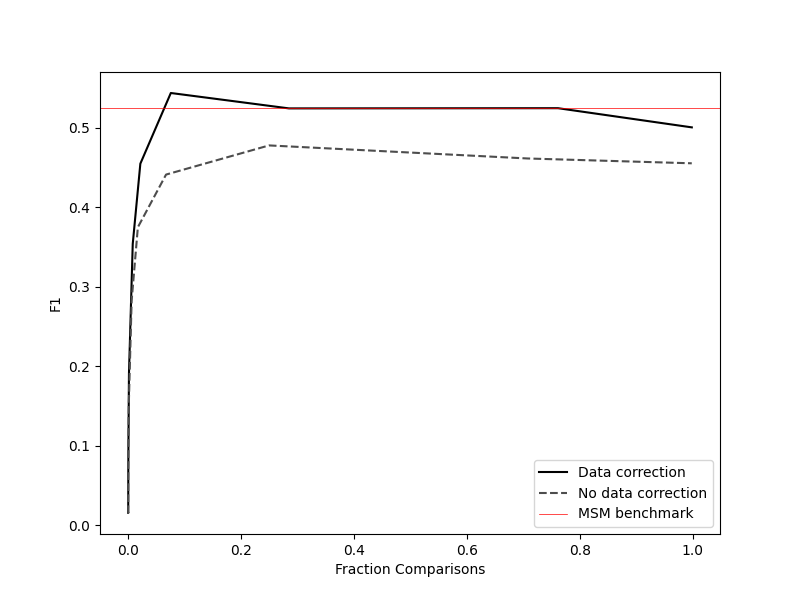
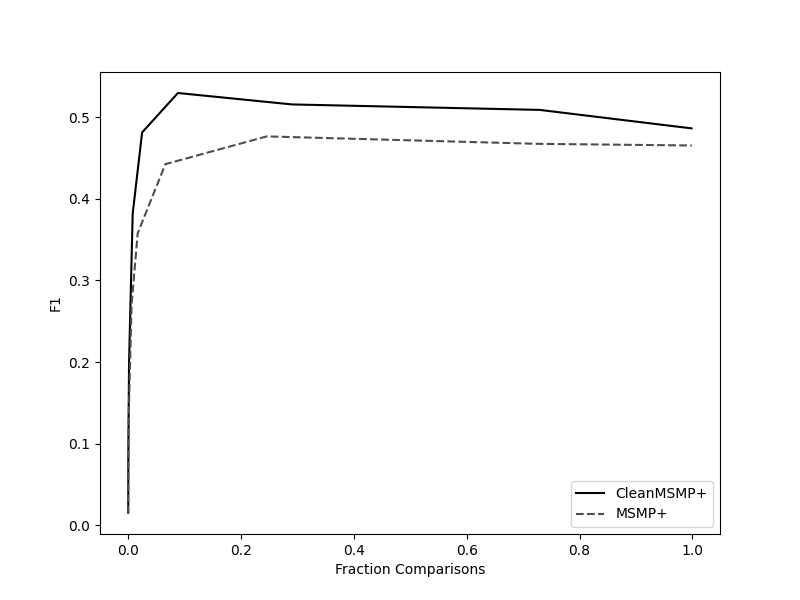
Update final results

diff --git a/main.py b/main.py
@@ -65,7 +65,7 @@ def check_duplicates(data, dissimilarity, candidates, clusters):
     F_1 = 2 * (precision * recall) / (precision + recall) if (precision + recall) != 0 else 0
     F_1_star = (2 * PQ * PC) / (PQ + PC) if PQ + PC != 0 else 0
 
-    return (F_1, F_1_star, PC, PQ, n_comp, frac_comp)
+    return (F_1, F_1_star, PC, PQ, n_comp, frac_comp, precision, recall)
 
 def plot_metrics(dataframe_corrected, dataframe_no_correction, metric1, metric2, path):
     os.makedirs(path, exist_ok=True)
@@ -75,11 +75,8 @@ def plot_metrics(dataframe_corrected, dataframe_no_correction, metric1, metric2,
     filename = f"{title}.png"
     
     plt.figure(figsize=(8, 6))
-    plt.plot(grouped_corrected[metric1], grouped_corrected[metric2], color='black', linestyle='-', label='Data correction')
-    plt.plot(grouped_no_correction[metric1], grouped_no_correction[metric2], color='0.3', linestyle='--', label='No data correction')
-    
-    if metric2 == "F1":
-        plt.axhline(y=0.525, color='red', linewidth=0.5, linestyle='-', label='MSM benchmark')
+    plt.plot(grouped_corrected[metric1], grouped_corrected[metric2], color='black', linestyle='-', label='CleanMSMP+')
+    plt.plot(grouped_no_correction[metric1], grouped_no_correction[metric2], color='0.3', linestyle='--', label='MSMP+')
     
     plt.xlabel(metric1)
     plt.ylabel(metric2)
@@ -214,7 +211,7 @@ def run_bootstrap(args):
     n_test = sig_matrix_test.shape[0]
     factors_test = [f for f in get_factors(n_test) if f >= 15]
     
-    columns = ["Threshold", "F1", "F1*", "PC", "PQ", "Number Comparisons", "Fraction Comparisons"]
+    columns = ["Threshold", "F1", "F1*", "PC", "PQ", "Number Comparisons", "Fraction Comparisons", "Precision", "Recall"]
     store_df = pd.DataFrame(np.zeros((len(factors_test), len(columns))), columns=columns, index=factors_test)
     
     keys_test = list(test.keys())
@@ -327,6 +324,9 @@ def main_func(path="TVs-all-merged.json", path_res=".", bootstraps=10, checkpoin
         pq_corrected = average_df_corrected[average_df_corrected['Fraction Comparisons'] > 0]
         pq_no_correction = average_df_no_correction[average_df_no_correction['Fraction Comparisons'] > 0]
         plot_metrics(pq_corrected, pq_no_correction, "Fraction Comparisons", "PQ", path_res)
+        
+        plot_metrics(average_df_corrected, average_df_no_correction, "Fraction Comparisons", "Precision", path_res)
+        plot_metrics(average_df_corrected, average_df_no_correction, "Fraction Comparisons", "Recall", path_res)
         
         return average_df_corrected, average_df_no_correction
     else:

diff --git a/data_cleaning.py b/data_cleaning.py
@@ -31,9 +31,17 @@ def remove_unwanted_strings(string):
             string = re.sub(r'\b' + re.escape(item) + r'\b', " ", string, flags=re.IGNORECASE)
     return re.sub(r'\s+', ' ', string).strip()
 
+def remove_trailing_colon_from_feature_names(feature_name):
+    if feature_name.endswith(":"):
+        return feature_name[:-1]
+    return feature_name
+
 def clean_data(data, data_correction=True):
     map_mw = {"inch ": ["inches", "Inch", '"', "-inch", " inch", "inch"],
               "hz ": ["Hertz", "hertz", "Hz", "HZ", " hz", "-hz", "hz"]}
+    
+    if data_correction:
+        map_mw["lbs "] = ["pound", "pounds", "Pound", "Pounds", "lb", "lbs", "LB", "LBS", "-lb", "-lbs", " lb", " lbs"]
     
     for name, products in data.items():
         for product in products:
@@ -47,14 +55,24 @@ def clean_data(data, data_correction=True):
                     product["title"] = title
             
             if "featuresMap" in product and isinstance(product["featuresMap"], dict):
+                # Create a new dictionary with cleaned feature names
+                cleaned_features = {}
                 for feature, value in product["featuresMap"].items():
+                    # Remove trailing colon from feature name
+                    cleaned_feature_name = remove_trailing_colon_from_feature_names(feature)
+                    
                     if value:
                         cleaned = replace(map_mw, value.lower())
                         if data_correction:
                             cleaned = re.sub(r'16:09', '16:9', cleaned)
-                            product["featuresMap"][feature] = remove_unwanted_strings(cleaned)
+                            cleaned_features[cleaned_feature_name] = remove_unwanted_strings(cleaned)
                         else:
-                            product["featuresMap"][feature] = cleaned
+                            cleaned_features[cleaned_feature_name] = cleaned
+                    else:
+                        cleaned_features[cleaned_feature_name] = value
+                
+                # Replace the featuresMap with cleaned version
+                product["featuresMap"] = cleaned_features
     
     return data
 

diff --git a/README.md b/README.md
@@ -1,1 +1,51 @@
-# Assignment-CS-for-Business-Analytics
+# TV Product Duplicate Detection
+
+Duplicate detection system for TV products using Locality Sensitive Hashing (LSH) with MinHash signatures and Multi-component Similarity Method MSM.
+
+## Overview
+
+This project implements an efficient duplicate detection pipeline that:
+- Uses LSH to reduce pairwise comparisons
+- Applies MSM computation on candidate pairs
+- Performs agglomerative clustering for final grouping
+- Compares performance with and without data correction (CleanMSMP+ vs MSMP+)
+
+## Code Structure
+
+- **`main.py`**: Main execution script with bootstrap evaluation and plotting
+- **`lsh.py`**: LSH implementation (MinHash signatures, candidate pair generation)
+- **`msm.py`**: Modified Similarity Measure for computing product similarity
+- **`data_cleaning.py`**: Data preprocessing and normalization 
+- **`TMWMSim.py`**: Title Model Word Similarity computation
+- **`analyze_data.py`**: Data analysis utilities (Not a part of duplication detection workflow)
+
+## Usage
+
+### Basic Run
+
+```python
+python main.py
+```
+
+### Custom Parameters
+
+Modify parameters in `main.py`:
+
+```python
+main_func(
+    path="TVs-all-merged.json",
+    bootstraps=8,
+    gammas=[0.5, 0.6, 0.7, 0.75],
+    epsilons=[0.4, 0.5, 0.6],
+    mus=[0.6, 0.65, 0.7],
+    fraction=0.5,
+    compare=True  # Compare with/without data correction
+)
+```
+
+### Output
+
+- Performance metrics (F1, F1*, PC, PQ, Precision, Recall)
+- Plots comparing CleanMSMP+ vs MSMP+ approaches
+- Checkpoint files for resuming interrupted runs
+
